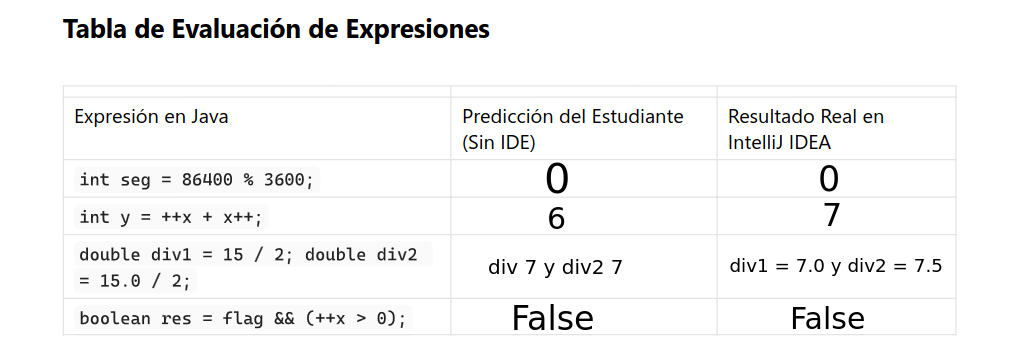
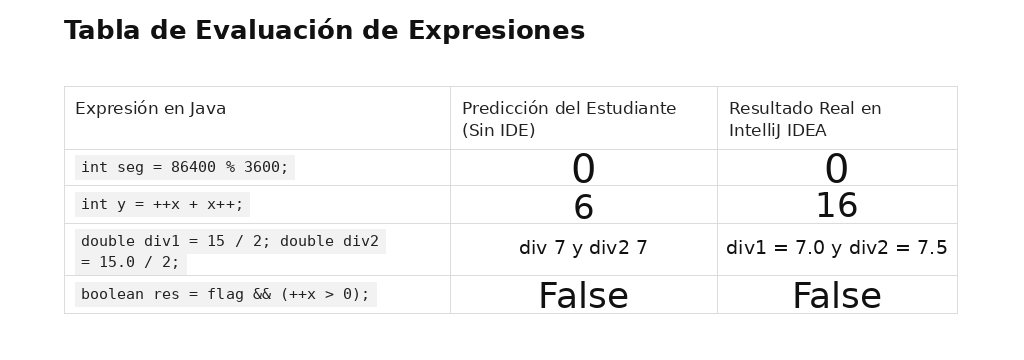
fix: set initial x value to 7 in section 1 warm-up

diff --git a/Java/seccion1/Seccion1Calentamiento.java b/Java/seccion1/Seccion1Calentamiento.java
@@ -8,7 +8,7 @@ public class Seccion1Calentamiento {
         int seg = 86400 % 3600;
         System.out.println("seg = " + seg);
 
-        x = 5;
+        x = 7;
         int y = ++x + x++;
         System.out.println("y = " + y);
         System.out.println("x despues = " + x);
